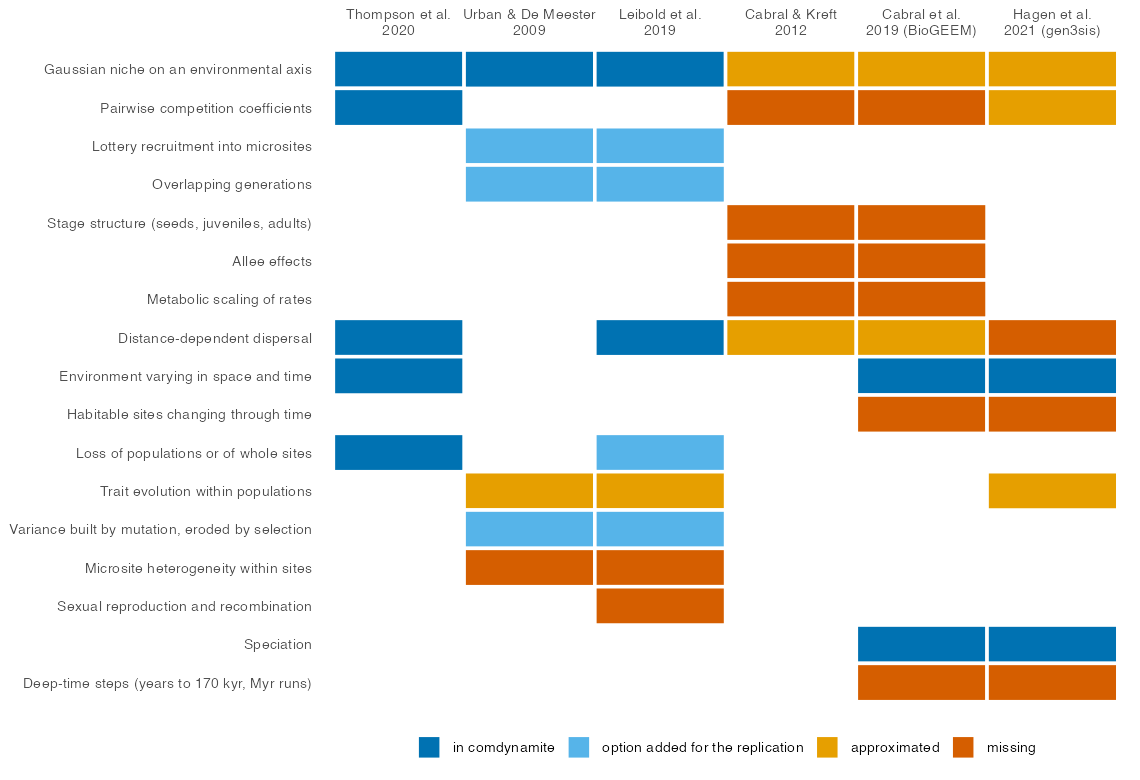
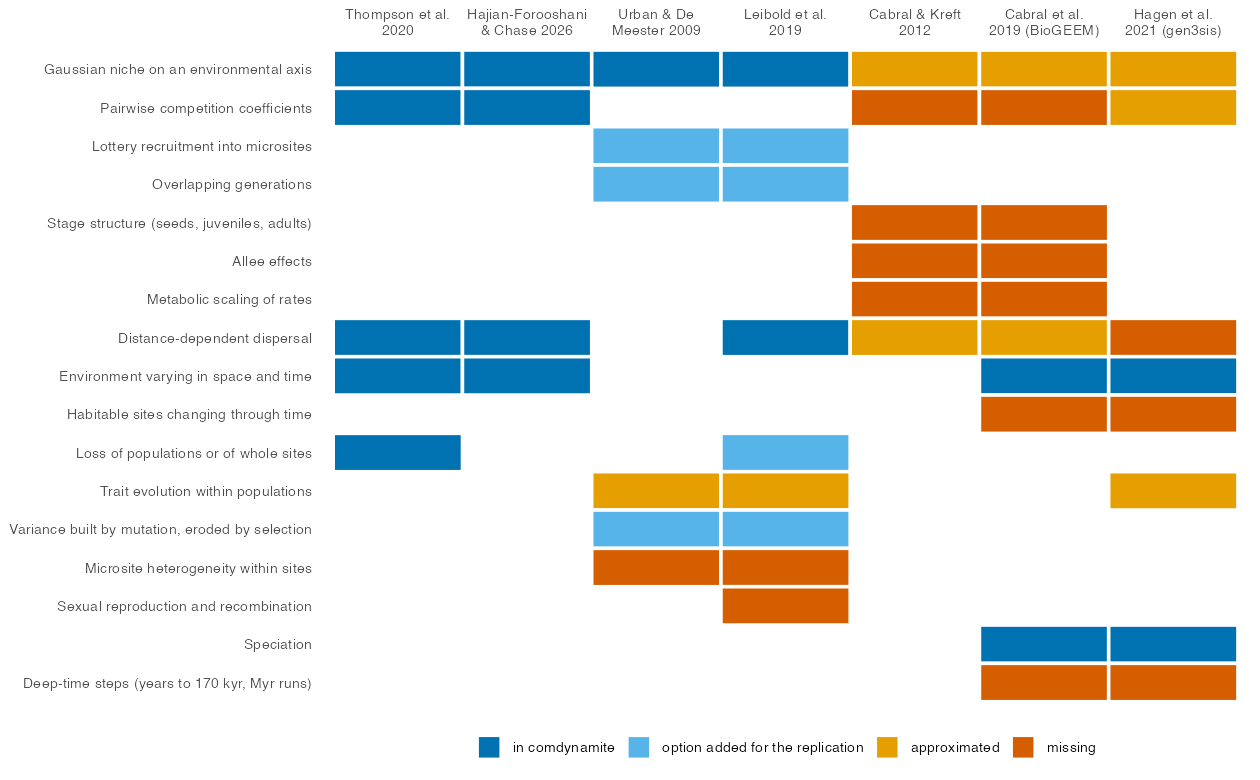
Revisão do env_pulse() e Hajian-Forooshani & Chase (2026) no mapa de aninhamento
- env_pulse(): start, duration e n_steps validados como números inteiros (um start
  fracionário deslocava o pulso e uma mudança permanente pulava o último passo);
  env e value sem NA; sites vazio rejeitado; mensagens explícitas no lugar de stopifnot.
- Mapa de aninhamento com sete modelos: coluna, seção e referência de
  Hajian-Forooshani & Chase (2026); figura refeita com rótulos quebrados.

diff --git a/dev/nesting-map.md b/dev/nesting-map.md
@@ -1,6 +1,6 @@
 # Nesting map: structure of published models (literature side)
 
-Scope: six published models, extracted from primary sources only. Every item carries its
+Scope: seven published models, extracted from primary sources only. Every item carries its
 location in the source. "Not verified" means the item was not found in the text that could be
 read; nothing was filled in from memory.
 
@@ -13,6 +13,7 @@ read; nothing was filled in from memory.
 | Leibold et al. 2019 | PMC HTML, PMC6377500 (main text only, for confirmation) | version of record | SI Appendix not re-read here (already extracted elsewhere) |
 | Cabral & Kreft 2012 | Local PDF on the user's disk: `/Users/diogoborgesprovete/Documents/Artigos/Ecologia de Comunidades e Geral/Cabral, J.S. Linking ecological niche.pdf` | Early View PDF of the published article (pages numbered 1 to 13; final pagination is 39(12): 2212-2224 according to OpenAlex) | Appendix S1. Wiley page behind a bot check; paper is closed access |
 | Cabral, Wiegand & Kreft 2019 (BioGEEM) | Published PDF supplied by the user on 2026-11-13 (J Biogeogr 46: 1582-1597), pages 1582-1593 read; first pass from the bioRxiv preprint 10.1101/099978 v1 | version of record | Appendix S1 (ODD, parameter table) and Appendix S2. Code at github.com/julianoscabral/BioGEEM (C++ with Armadillo), **no license declared**: read and run only, never copied into comdynamite |
+| Hajian-Forooshani & Chase 2026 | Extracted by the session that wrote `data-raw/replication_hajian2026.R`, from the article and the code archived on Figshare (doi:10.6084/m9.figshare.30620603.v1); this section was compiled from that script and the article `replication-disturbance`, not from a new reading of the paper | version of record | Simulated data archived with the code (106 MB) not compared |
 | Hagen et al. 2021 (gen3sis) | Europe PMC full-text XML, PMC8384074 | version of record (open access) | S1 to S3 Notes (DOCX) not read; only their captions |
 
 Page numbers: PMC and PLoS texts carry no page breaks, so locations are given as section,
@@ -147,6 +148,25 @@ and ecology are user functions. The case-study values below belong to the Cenozo
 | Emergent patterns | Latitudinal diversity gradient, phylogenetic tree imbalance, range size frequencies, alpha diversity maps. Runs with deep-time landscape dynamics fit data better; carrying-capacity models M4 and M5 fit best and M5 alone passes all acceptance criteria; lower dispersal fits the LDG better. Island case: gamma richness follows island geomorphology under three rates of trait evolution (S15 Fig, caption only). | "Simulations results"; "Synthesis"; Table 3; S15 Fig caption |
 | Not verified | Contents of S1 to S3 Notes (exact ecology functions, Table A, pseudo-code). The M2 text says abundance "increased proportionally to the distance" between optimum and site temperature; the exact functional form is in S1 Note and was not read. | |
 
+## 7. Hajian-Forooshani & Chase 2026, Am Nat 207: 838-850, doi:10.1086/739955
+
+Locations refer to the script `data-raw/replication_hajian2026.R` and the article
+`replication-disturbance`, which give the source (text or archived code) of each value.
+
+| Item | Extracted | Location |
+|---|---|---|
+| Level of organisation | Populations; the model of Thompson et al. 2020. | Article "Translation of the model" |
+| Abiotic niche | r = r_max exp(-((z - e)/(2n))^2) in the code, so sigma = sqrt(2) n; the text calls n the standard deviation. Niche breadth n shared by all species: 0.2, 0.25, 0.3, 0.4. | Code; article "Differences from their implementation" |
+| Competition | Intraspecific 0.5 x 0.05; interspecific U(0, 1) x 0.05, asymmetric. | Code |
+| Dispersal | 10 x 10 torus grid, kernel exp(-0.1 d); emigrants of a species pooled over the landscape and redistributed in proportion to the expected inflow (an emigrant can return to its own patch). d = 1e-5, 1e-4, 1e-3. | Code; article "Differences from their implementation" |
+| Environment | U(0.5, 1) per patch, no spatial autocorrelation, static except for the pulse. | Code |
+| Disturbance | One pulse: environment of 1 patch or 5% to 100% of patches set to 0.1 for steps 500 to 600, then restored. Text gives only "below 0.5". | Code; text |
+| Speciation, extinction | None; no extirpation and no seeding after the start, so the landscape is closed. | Code |
+| Time scale | Ecological: 1000 steps. | Code |
+| Key parameter values | 30 species, optima U(0.5, 1), r_max = 5, Poisson(1) initial individuals per species and patch. Figure legends say 100 replicates; the code runs 50. | Code; figure legends |
+| Emergent patterns | Dispersal limitation: beta diversity increases (differentiation); dispersal surplus: beta decreases (homogenisation); intermediate dispersal: direction depends on extent and niche breadth (Figs 2, 3). Fig. 4 separates regional extinctions during and after the pulse. | Figs 2 to 4 |
+| Not verified | Fig. 4 not yet replicated; no quantitative comparison with their archived data. | |
+
 ---
 
 ## Nesting table
@@ -158,6 +178,7 @@ proposals derived from the extracted structure; none has been run in this pass.
 | Model | comdynamite settings that approximate it | Mechanisms missing in comdynamite | What a replication should test |
 |---|---|---|---|
 | Thompson et al. 2020 | Native case. `simulate_metacommunity()` with 100 random patches on a torus, S = 50, r_max = 5, Gaussian niche with common sigma (0.001 to 10), `alpha` built for the four scenarios and scaled by 0.05, `dispersal` 0.0001 to 0.464, exponential kernel, `env_time` autocorrelated in space and time (mean 0.5, variance 0.5, scales 50 and 500), `seed_steps = seq(10, 100, 10)`, `seed_mean = 0.5`, `immigration = "poisson"`, `extirpation = 0.002` only in the competition-colonisation scenario, 2200 steps, `evolution = NULL`. | None in structure. Open inputs: the distribution of optima z_i and the kernel strength L_i are not in the main text (take from the Zenodo code). Lower dispersal for dominants needs a per-species `dispersal`. | Figs 3 to 6: alpha, spatial and temporal beta, gamma against dispersal for sigma = 0.5 and 10 under the four competition scenarios; H1 to H8 of Box 2; invariability against dispersal; BEF curve. This is the baseline that the other rows nest in. |
+| Hajian-Forooshani & Chase 2026 | Native case. `simulate_metacommunity()` with `landscape_grid(side = 10, disp_scale = 10, torus = TRUE)`, 30 species, sigma = sqrt(2) n, the asymmetric competition matrix passed as is, `immigration = "multinomial"`, `seed_steps = numeric(0)`, `seed_mean = 1`, no extirpation, 1000 steps, and `env_time = env_pulse(env, 1000, sites, start = 500, duration = 101, value = 0.1)`. | None in structure. The redistribution of emigrants differs (pooled over the landscape in their code, patch by patch in comdynamite); with a nearly flat kernel the difference should be small. | Figs 2 and 3: changes in alpha, gamma and beta against the extent of the disturbance, for three dispersal rates and four niche breadths. Done in `data-raw/replication_hajian2026.R` and the article `replication-disturbance`: reproduced qualitatively; an undisturbed control shows a background decline of gamma at intermediate and high dispersal. |
 | Urban & De Meester 2009 | Three sites (env 0.4, 0.4, 0.6), two species with the same optimum 0.4, equal `alpha` (alpha_ij = alpha_ii, K near 1000 per site), spatially implicit dispersal matrix with equal exchange among the three sites, m from 0.005 to 0.5, static environment. `evolution_control(genetic_var = G)` with G per species (0 for a non-evolving species), finite `ne_ratio` for drift, `founder = TRUE`, `env_var` for sigma_p^2. Arrival lag through `pool` and `initial` (third site empty; the second species admitted later). 5000 steps. | Individuals; 20 haploid loci with mutation, so variance that builds up, is depleted by selection and drift, and scales with population size (the self-reinforcing loop behind monopolisation; comdynamite keeps G constant); standing variation eroded in the source before colonisation; asexual clonal inheritance; lottery recruitment into a fixed number of microsites; overlapping generations with survival selection; microsite heterogeneity within patches (sigma_e^2). A scheduled, species-specific introduction time is needed for scenario 1 (check whether `initial`/`pool` can express it; otherwise run in two stages). | (a) Fig. 2: final abundance of each species in the new patch against arrival lag (-200 to +200), with G = 0 for both, G > 0 for one, G > 0 for both. (b) Fig. 4: dominance on the 11 x 11 grid of dispersal probabilities, looking for the monopolisation regions and the gene-flow maladaptation region. (c) Fig. 3: at m = 0.10 the winner loses its source patch. (d) Bimodal (U-shaped) distribution of final abundances across replicates. With constant G the 5 to 10 step lead effect may be weaker or stronger than in the paper; report this as a known structural difference. Baselines from ESM Table S1: omega = 0.5 (x 100: niche width 50 against an environmental difference of 20, so selection is weaker than in Leibold et al. 2019), sigma_p = 1/40 (V_E = 6.25 on the x 100 scale), m = 0.05, 1000 microsites, T = 5000. Done in `data-raw/replication_urban2009.R` and the article `replication-urban`, with `pool_from` for the arrival lag and `mutation_var` for size-dependent variance; reproduced (a) for one species evolving by mutation and (d); the order-of-arrival effect with both evolving, (b) and (c) only partly (see the article). With `recruitment = "lottery"`, `mortality = 0.1` and `variance_selection = TRUE` (`data-raw/mechanisms_urban2009.R`), standing variation gives the priority effect and the better disperser keeps its advantage under evolution; the weak order-of-arrival effect with mutation and the source loss at low dispersal remain. |
 | Leibold et al. 2019 | Already translated in `data-raw/replication_leibold2019.R`: 10 x 10 grid, two patch types, two pre-adapted species, equal alpha with K = 400, exponential kernel, `disturbance = 0.01`, Lande evolution with constant G, 10 000 steps. | Loci, mutation and build-up of variance from zero; sexual reproduction; overlapping generations; microsite variation (as already listed in that script). | Convergence of the two species to bimodal trait distributions, loss of species-environment matching in variation partitioning, dependence on dispersal (Figs 3 to 6). SI Table S2 gives P_ext per generation, so `disturbance = 0.01` per step (one step = one generation) matches. Lottery recruitment (400 microsites), overlapping generations (`mortality = 0.1`) and variance built from zero by mutation, with or without `variance_selection`, did not produce their local dominance (`data-raw/mechanisms_leibold2019_recruitment.R`). |
 | Cabral & Kreft 2012 | Partial, ecological only. 15 x 15 lattice with a one-axis temperature gradient (15 levels), 400 species with random optimum and niche width (Gaussian in place of the triangular H; sigma from Te), per-species `r_max`, per-species dispersal kernel, equal `alpha` scaled per species to mimic space pre-emption, static environment, no evolution, absorbing edges if the kernel matrix allows loss. | Stage structure (seed bank, juveniles, adults) and yearly binomial transitions; metabolic scaling of rates and space use with body mass and temperature; competition for space with self-thinning and a phenological priority order; Allee effects; Clark's 2Dt kernel with a fat tail; maximum habitat suitability O as a cap on K; life forms; 10 000 yearly steps with slow tree dynamics. | Only the qualitative, community-level results: mid-elevation richness peak from overlapping thermal niches; realised range smaller than potential range, more often in community runs than in single-species runs (53% against 31%); abundance peak displaced from the niche optimum for a minority of species. Trait-filtering results (body mass, Allee, life form) cannot be tested. State clearly that this is an analogue, not a replication. |
@@ -173,3 +194,4 @@ proposals derived from the extracted structure; none has been run in this pass.
 5. Cabral et al. 2019: published article read (pp. 1582-1593); Appendix S1 and S2 not read. The code has no license (read and run only).
 6. Hagen et al. 2021: S1 to S3 Notes not read (exact ecology functions and Table A).
 7. The comdynamite settings in the nesting table were written from function signatures and roxygen text; none was executed, and the ability of `initial`/`pool` to schedule a late arrival was not checked.
+8. Hajian-Forooshani & Chase 2026: section compiled from the replication script and article, not from a new reading of the paper; their archived simulated data not compared.

diff --git a/NEWS.md b/NEWS.md
@@ -16,7 +16,7 @@
   against random partitions rarely has 19 distinct ones. `n_rand = 0` runs the bootstrap alone.
   `data-raw/s1_type1_shifts.R` gains `MODE=boot`.
 
-- New article "Nesting map" (`data-raw/figure_nesting_map.R`): six published models mapped
+- New article "Nesting map" (`data-raw/figure_nesting_map.R`): seven published models mapped
   onto comdynamite, with the settings that approximate each, the mechanisms it lacks and the
   outcome of the replications; comdynamite is presented as a modular framework for populations
   and quantitative genetics in ecological time, not as a model that contains the others.
